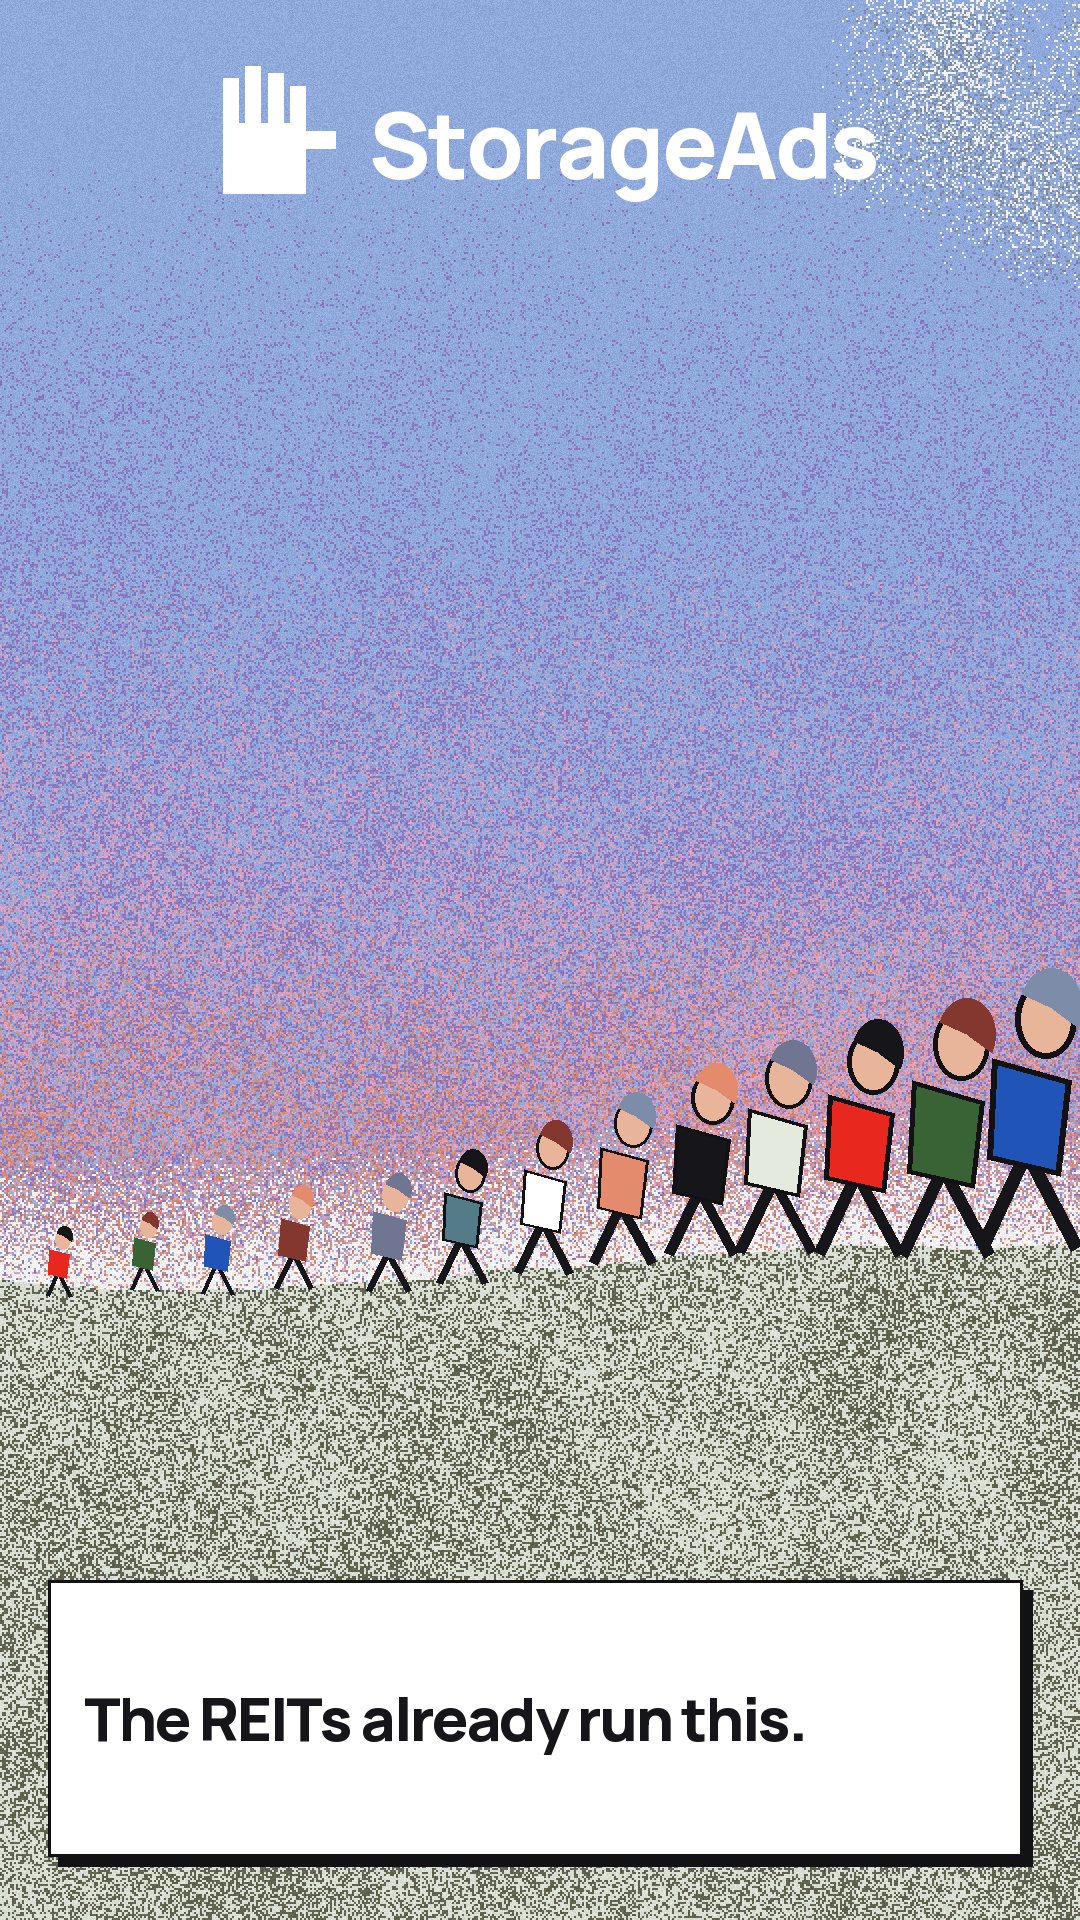
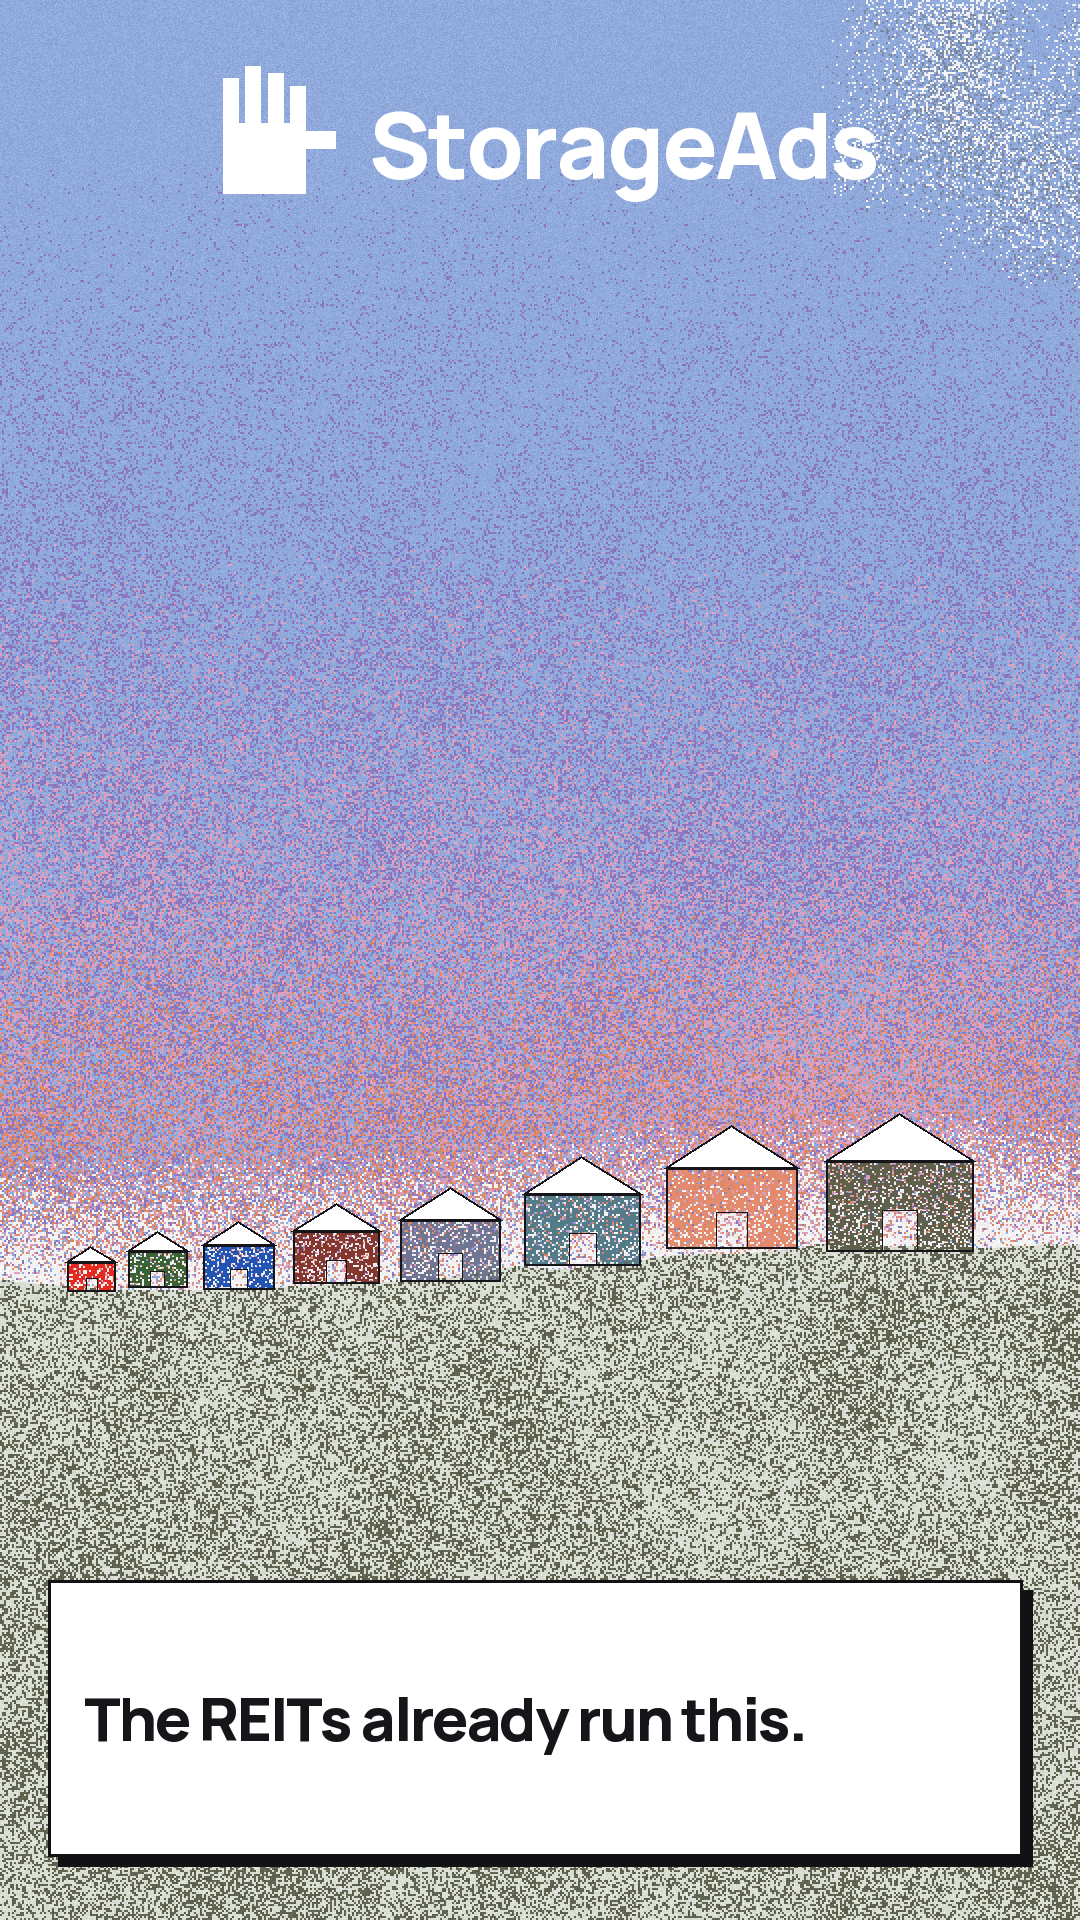
Redraw the hilltop crowd as stippled units.
The gathering is households, drawn like the facility plates, and the ridge carries the same units into the light.

Changed region(s): [[0.0306, 0.5, 1.0, 0.6875]]

diff --git a/design-language/instrument-calm/ads-003/hilltop.html b/design-language/instrument-calm/ads-003/hilltop.html
@@ -18,11 +18,11 @@
 <p>Low angle, warm stipple, the crowd as a shape, a voiceover card, and the mark on a plate in front of the hill.</p>
 <div class="sheet">
   <figure><img src="png/14-lookup.png" alt="Someone needs a unit." /><figcaption>14 Looking up. Someone needs a unit.</figcaption></figure>
-  <figure><img src="png/15-hill.png" alt="Fill the place." /><figcaption>15 The hill. Fill the place.</figcaption></figure>
+  <figure><img src="png/15-hill.png" alt="Fill the place." /><figcaption>15 The hill. Households, side by side.</figcaption></figure>
   <figure><img src="png/16-hour.png" alt="Ads that feel like instruments." /><figcaption>16 The hour. Ads that feel like instruments.</figcaption></figure>
-  <figure><img src="png/17-card.png" alt="For independent operators. Same system the REITs run." /><figcaption>17 The card. For independent operators.</figcaption></figure>
-  <figure><img src="png/18-plate.png" alt="Built to fill units." /><figcaption>18 The plate. Built to fill units.</figcaption></figure>
-  <figure><img src="png/19-line.png" alt="The REITs already run this." /><figcaption>19 The line. The REITs already run this.</figcaption></figure>
+  <figure><img src="png/17-card.png" alt="A lot of lives. One place." /><figcaption>17 The card. A lot of lives. One place.</figcaption></figure>
+  <figure><img src="png/18-plate.png" alt="Built to fill units." /><figcaption>18 The plate. The mark in front of the hill.</figcaption></figure>
+  <figure><img src="png/19-line.png" alt="The REITs already run this." /><figcaption>19 The line. Units along the ridge.</figcaption></figure>
 </div>
 </body>
 </html>

diff --git a/design-language/instrument-calm/ads-003/make_hilltop.py b/design-language/instrument-calm/ads-003/make_hilltop.py
@@ -47,6 +47,7 @@ PURPLE = hx("#8E78C8")
 SKIN = hx("#E8B59A")
 
 CLOTH = [RED, GREEN, BLUE, CRAYON, PERI, TEAL, WHITE, PEACH, INK, SAGE]
+WALLS = [RED, GREEN, BLUE, CRAYON, PERI, TEAL, PEACH, OLIVE, SKY]
 HAIR = [INK, CRAYON, SLATE, PEACH, PERI]
 HAND = [
     (16, 54, 66, 56),
@@ -124,40 +125,59 @@ def line_in_pane(d, box, s, size, xpad=36):
     return size
 
 
-def dot_person(d, x, y, h, cloth, hair):
-    """Seen from the hill. A head and a shirt. No face, no stick legs."""
-    s = h / 100.0
-    d.rectangle([x - 9 * s, y - 8 * s, x + 9 * s, y + 14 * s], fill=cloth)
-    d.ellipse([x - 7 * s, y - 24 * s, x + 7 * s, y - 8 * s], fill=SKIN)
-    d.pieslice([x - 7 * s, y - 26 * s, x + 7 * s, y - 12 * s], 200, 340, fill=hair)
-
-
-def bust(d, x, y, h, cloth, hair):
-    """Head and shoulders, low angle. y is the shoulder line."""
-    s = h / 100.0
-    ow = max(2, int(round(2.4 * s)))
+def house(img, x, y, s, wall, seed):
+    """A unit in the facility-plate grammar: thin ink line, stippled wall, white roof."""
+    w, h, roof = s * 0.92, s * 0.56, s * 0.30
+    x0, y0 = int(round(x - w / 2)), int(round(y - h))
+    x1, y1 = int(round(x + w / 2)), int(round(y))
+    x0, y0 = max(0, x0), max(0, y0)
+    x1, y1 = min(img.width - 1, x1), min(img.height - 1, y1)
+    if x1 - x0 < 6 or y1 - y0 < 6:
+        return img
+    tone = np.full((y1 - y0, x1 - x0), 0.7, np.float32)
+    dw = max(2, int((x1 - x0) * 0.24))
+    dh = max(3, int((y1 - y0) * 0.46))
+    cx0 = max(0, (x1 - x0) // 2 - dw // 2)
+    tone[max(0, (y1 - y0) - dh):, cx0:cx0 + dw] = 0
+    mask = dither_mask(tone, "stipple", seed, cell=2)
+    arr = np.array(img)
+    sub = arr[y0:y0 + mask.shape[0], x0:x0 + mask.shape[1]]
+    mm = mask[:sub.shape[0], :sub.shape[1]]
+    sub[mm] = wall
+    arr[y0:y0 + sub.shape[0], x0:x0 + sub.shape[1]] = sub
+    img = Image.fromarray(arr)
+    d = ImageDraw.Draw(img)
+    d.rectangle([x0, y0, x1, y1], outline=INK, width=2)
     d.polygon(
-        [(x - 34 * s, y + 28 * s), (x - 26 * s, y - 6 * s), (x + 26 * s, y - 6 * s), (x + 34 * s, y + 28 * s)],
-        fill=cloth, outline=LINE, width=ow,
+        [(x0 - 2, y0), (x, y0 - roof), (x1 + 2, y0)],
+        fill=WHITE, outline=INK, width=2,
     )
-    d.ellipse([x - 16 * s, y - 52 * s, x + 16 * s, y - 16 * s], fill=SKIN, outline=LINE, width=ow)
-    d.pieslice([x - 16 * s, y - 54 * s, x + 16 * s, y - 30 * s], 190, 350, fill=hair)
-    return (x, y - 52 * s)
+    d.rectangle([x0 + cx0, y1 - dh, x0 + cx0 + dw, y1], outline=INK, width=1)
+    return img
 
 
-def walker(d, x, y, h, cloth, hair):
-    """Profile, walking right, along the ridge. No face."""
+def hat(d, x, y, s, color):
+    """The public mark. One brim, one crown. No face."""
+    sw = max(2, int(round(s / 14)))
+    k = s / 32.0
+    def P(px, py):
+        return (x + (px - 22) * k, y + (py - 70) * k)
+    d.line([P(6, 70), P(38, 70)], fill=color, width=sw)
+    crown = [(14, 70), (14, 52), (20, 52), (23, 44), (29, 44), (31, 52), (36, 52), (36, 70)]
+    d.line([P(a, b) for a, b in crown], fill=color, width=sw, joint="curve")
+
+
+def walker(d, x, y, h, color=INK):
+    """A person as a line icon, same stroke as the attention marks. No face."""
     s = h / 100.0
-    ow = max(2, int(round(2 * s))) if h >= 120 else 0
-    sw = max(3, int(round(5 * s)))
-    d.line([(x - 2 * s, y - 30 * s), (x - 16 * s, y)], fill=INK, width=sw)
-    d.line([(x + 2 * s, y - 30 * s), (x + 18 * s, y)], fill=INK, width=sw)
-    d.polygon(
-        [(x - 12 * s, y - 68 * s), (x + 16 * s, y - 60 * s), (x + 12 * s, y - 26 * s), (x - 14 * s, y - 32 * s)],
-        fill=cloth, outline=LINE if ow else None, width=ow,
-    )
-    d.ellipse([x - 4 * s, y - 96 * s, x + 18 * s, y - 68 * s], fill=SKIN, outline=LINE if ow else None, width=ow)
-    d.pieslice([x - 2 * s, y - 100 * s, x + 20 * s, y - 72 * s], 200, 30, fill=hair)
+    sw = max(2, int(round(h / 36)))
+    r = 7.5 * s
+    hy = y - 86 * s
+    d.ellipse([x - r, hy - r, x + r, hy + r], outline=color, width=sw)
+    d.line([(x, hy + r), (x + 2 * s, y - 34 * s)], fill=color, width=sw)
+    d.line([(x + 2 * s, y - 58 * s), (x + 16 * s, y - 46 * s)], fill=color, width=sw)
+    d.line([(x + 2 * s, y - 34 * s), (x - 14 * s, y)], fill=color, width=sw)
+    d.line([(x + 2 * s, y - 34 * s), (x + 16 * s, y)], fill=color, width=sw)
 
 
 def ribbons(d, x, y, length, sw=5):
@@ -192,36 +212,42 @@ def hill(w, h, horizon=0.28, seed=11, clear_logo=True):
     teal = np.where(yn >= horizon, 0.14 * n * np.clip((yn - 0.72) * 4, 0, 1), 0)
     img = stipple(img, olive, OLIVE, seed + 2)
     img = stipple(img, teal, TEAL, seed + 3)
+    # Sun on the grass, as dots. The aerial frames are lit from behind the hill.
+    sun = np.where((yn >= horizon) & (yn < horizon + 0.18), (0.10 + 0.18 * fine) * np.clip((horizon + 0.18 - yn) * 6, 0, 1), 0)
+    img = stipple(img, sun, PEACH, seed + 6)
+    img = stipple(img, sun * 0.35, PINK, seed + 7)
     return grain(img, 0.10, seed + 9)
 
 
-def crowd(d, w, h, y0, y1, seed=4, gap=None, n=90, h0=120, h1=70):
-    """An oval gathering on the grass. Nearer people are larger. Not a bottle."""
+def crowd(img, y0, y1, seed=4, gap=None, n=42, h0=64, h1=28):
+    """Households on the hill. An oval, nearer units larger. Not a bottle."""
+    w, h = img.size
     rng = np.random.default_rng(seed)
     cx = w / 2
     cy = (y0 + y1) / 2
-    rx = w * 0.36
+    rx = w * 0.38
     ry = (y1 - y0) / 2
     placed = []
-    for _ in range(n * 8):
+    for _ in range(n * 12):
         if len(placed) >= n:
             break
-        x = cx + rng.normal(0, rx * 0.70)
-        y = cy + rng.normal(0, ry * 0.70)
+        x = cx + rng.normal(0, rx * 0.62)
+        y = cy + rng.normal(0, ry * 0.62)
         if ((x - cx) / rx) ** 2 + ((y - cy) / ry) ** 2 > 1:
             continue
-        if x < 28 or x > w - 28 or y < 28 or y > h - 28:
+        if x < 40 or x > w - 40 or y < 40 or y > h - 20:
             continue
         if gap and gap[0] < x < gap[1] and gap[2] < y < gap[3]:
             continue
         t = float(np.clip((y - y0) / max(1, y1 - y0), 0, 1))
         hh = h0 + h1 * t
-        if any((x - px) ** 2 + (y - py) ** 2 < (hh * 0.28) ** 2 for px, py, _, _ in placed):
+        if any((x - px) ** 2 + (y - py) ** 2 < (max(hh, ph) * 0.72) ** 2 for px, py, ph in placed):
             continue
-        placed.append((x, y, t, hh))
+        placed.append((x, y, hh))
     placed.sort(key=lambda p: p[1])
-    for i, (x, y, t, hh) in enumerate(placed):
-        dot_person(d, x, y, hh, CLOTH[i % len(CLOTH)], HAIR[(i * 3) % len(HAIR)])
+    for i, (x, y, hh) in enumerate(placed):
+        img = house(img, x, y, hh, WALLS[i % len(WALLS)], seed + i)
+    return img
 
 
 def hand_only(d, cx, y, hand, fill):
@@ -243,19 +269,9 @@ def lookup():
     img = stipple(img, np.clip(np.roll(cloud, 10, 0) * 0.7, 0, 1), SLATE, 22)
     img = stipple(img, cloud, WHITE, 23)
     img = grain(img, 0.10, 24)
+    for i, (x, s) in enumerate(((160, 86), (330, 104), (520, 124), (730, 108), (920, 90))):
+        img = house(img, x, 908, s, WALLS[i], 40 + i)
     d = ImageDraw.Draw(img)
-    # Shoulders meet the pane. Heads sit in the sky. One pair of ribbons, off the face.
-    specs = [
-        (130, 900, 150),
-        (280, 880, 190),
-        (430, 860, 220),
-        (590, 830, 260),
-        (760, 860, 210),
-        (920, 890, 170),
-    ]
-    for i, (x, y, ht) in enumerate(specs):
-        bust(d, x, y, ht, CLOTH[i % len(CLOTH)], HAIR[i % len(HAIR)])
-    ribbons(d, 720, 740, 140, sw=8)
     logo_center(d, w / 2, 48, 132, WHITE, word=84)
     box = (48, 900, w - 58, h - 58)
     pane(d, box)
@@ -266,8 +282,8 @@ def lookup():
 def the_hill():
     w = h = 1080
     img = hill(w, h, horizon=0.30, seed=31)
+    img = crowd(img, 390, 790, seed=8, n=34, h0=78, h1=36)
     d = ImageDraw.Draw(img)
-    crowd(d, w, h, 360, 790, seed=8, n=96, h0=120, h1=70)
     logo_center(d, w / 2, 36, 128, WHITE, word=80)
     box = (48, 820, w - 58, h - 58)
     pane(d, box)
@@ -282,19 +298,19 @@ def the_hour():
     n = smooth_noise((h, w), scale=180, seed=41, octaves=4)
     fine = smooth_noise((h, w), scale=70, seed=42, octaves=3)
     img = Image.new("RGB", (w, h), SKY)
-    halo = np.exp(-((xn - 0.50) ** 2) / 0.09 - ((yn - 0.32) ** 2) / 0.045)
-    blow = np.clip((n - 0.48) * 3.0, 0, 1) * np.clip((yn - 0.06) * 2.4, 0, 1)
-    blow = np.clip(blow * 0.65 + halo * 0.9, 0, 1)
-    pink = np.clip((yn - 0.16) * 1.8, 0, 0.75) * (0.35 + 0.65 * fine)
-    peach = np.clip((yn - 0.28) * 2.2, 0, 0.88) * (0.4 + 0.6 * n)
-    orange = np.clip((yn - 0.50) * 2.8, 0, 0.8) * (0.4 + 0.6 * fine)
+    halo = np.exp(-((xn - 0.50) ** 2) / 0.07 - ((yn - 0.34) ** 2) / 0.035)
+    blow = np.clip((n - 0.42) * 2.6, 0, 1) * np.clip((yn - 0.04) * 2.2, 0, 1)
+    blow = np.clip(blow * 0.55 + halo * 0.95, 0, 1)
+    pink = np.clip((yn - 0.10) * 1.6, 0, 0.82) * (0.4 + 0.6 * fine)
+    peach = np.clip((yn - 0.22) * 2.0, 0, 0.9) * (0.45 + 0.55 * n)
+    orange = np.clip((yn - 0.42) * 2.4, 0, 0.88) * (0.45 + 0.55 * fine)
     img = stipple(img, pink, PINK, 43)
     img = stipple(img, peach, PEACH, 44)
     img = stipple(img, orange, hx("#E07A62"), 45)
     img = stipple(img, blow, WHITE, 46)
     img = grain(img, 0.10, 47)
     d = ImageDraw.Draw(img)
-    hand_only(d, w / 2, 150, 420, WHITE)
+    hand_only(d, w / 2, 120, 500, WHITE)
     box = (48, 820, w - 58, h - 58)
     pane(d, box)
     logo(d, 76, 842, 52, INK, word=26)
@@ -306,13 +322,13 @@ def the_hour():
 def the_card():
     w = h = 1080
     img = hill(w, h, horizon=0.20, seed=51)
+    img = crowd(img, 700, 1040, seed=12, n=22, h0=70, h1=24)
     d = ImageDraw.Draw(img)
-    crowd(d, w, h, 680, 1040, seed=12, n=64, h0=110, h1=50)
     logo_center(d, w / 2, 28, 100, WHITE, word=64)
     box = (120, 210, w - 130, 720)
     pane(d, box)
     awning(d, 120, 210, (w - 130) - 120, 26)
-    lines = [("For independent operators.", 56), ("Same system the REITs run.", 64)]
+    lines = [("A lot of lives.", 72), ("One place.", 84)]
     y = 340
     for line, size in lines:
         size = fit(line, size, w - 340)
@@ -329,9 +345,8 @@ def the_card():
 def the_plate():
     w = h = 1080
     img = hill(w, h, horizon=0.30, seed=61, clear_logo=False)
+    img = crowd(img, 560, 1040, seed=15, n=26, h0=64, h1=28, gap=(280, 800, 140, 730))
     d = ImageDraw.Draw(img)
-    # The mark sits in front of the hill. The crowd shows beside it and below it.
-    crowd(d, w, h, 500, 1040, seed=15, n=70, h0=120, h1=60, gap=(300, 780, 160, 720))
     box = (300, 168, 780, 700)
     pane(d, box, shadow=12)
     hand_only(d, 540, 210, 220, INK)
@@ -369,14 +384,14 @@ def the_line():
     olive = np.where(~above, 0.22 + 0.4 * fine, 0)
     img = stipple(img, olive, OLIVE, 79)
     img = grain(img, 0.10, 80)
+    x = 36.0
+    for i in range(8):
+        t = i / 7
+        s = 52 + (t ** 1.15) * 108
+        x += s * 1.05
+        yy = float(ridge[0, min(w - 1, int(min(x, w - 1)))]) * h + 2
+        img = house(img, x, yy, s, WALLS[i % len(WALLS)], 90 + i)
     d = ImageDraw.Draw(img)
-    rng = np.random.default_rng(18)
-    for i in range(13):
-        t = i / 12
-        x = 60 + t * 960 + rng.uniform(-8, 8)
-        ht = 70 + (t ** 1.35) * 210
-        yy = float(ridge[0, min(w - 1, int(x))]) * h + 6
-        walker(d, x, yy, ht, CLOTH[i % len(CLOTH)], HAIR[i % len(HAIR)])
     logo_center(d, w / 2, 56, 150, WHITE, word=92)
     box = (48, 1580, w - 58, h - 64)
     pane(d, box)
@@ -389,12 +404,12 @@ def contact(images):
     thumb_w = 540
     gap = 28
     caps = [
-        "14  Looking up. Clear blue. The sky is the set.",
-        "15  The hill. The crowd is the picture.",
-        "16  The hour. Warmth is in the dots.",
-        "17  The card. Short lines, then the name.",
+        "14  Looking up. The public, in the hat mark.",
+        "15  The hill. Households, side by side.",
+        "16  The hour. The light is the close-up.",
+        "17  The card. A lot of lives. One place.",
         "18  The plate. The mark in front of the hill.",
-        "19  The line. One lamp of sun, people along the ridge.",
+        "19  The line. Icons along the ridge.",
     ]
     thumbs = []
     for im in images:
